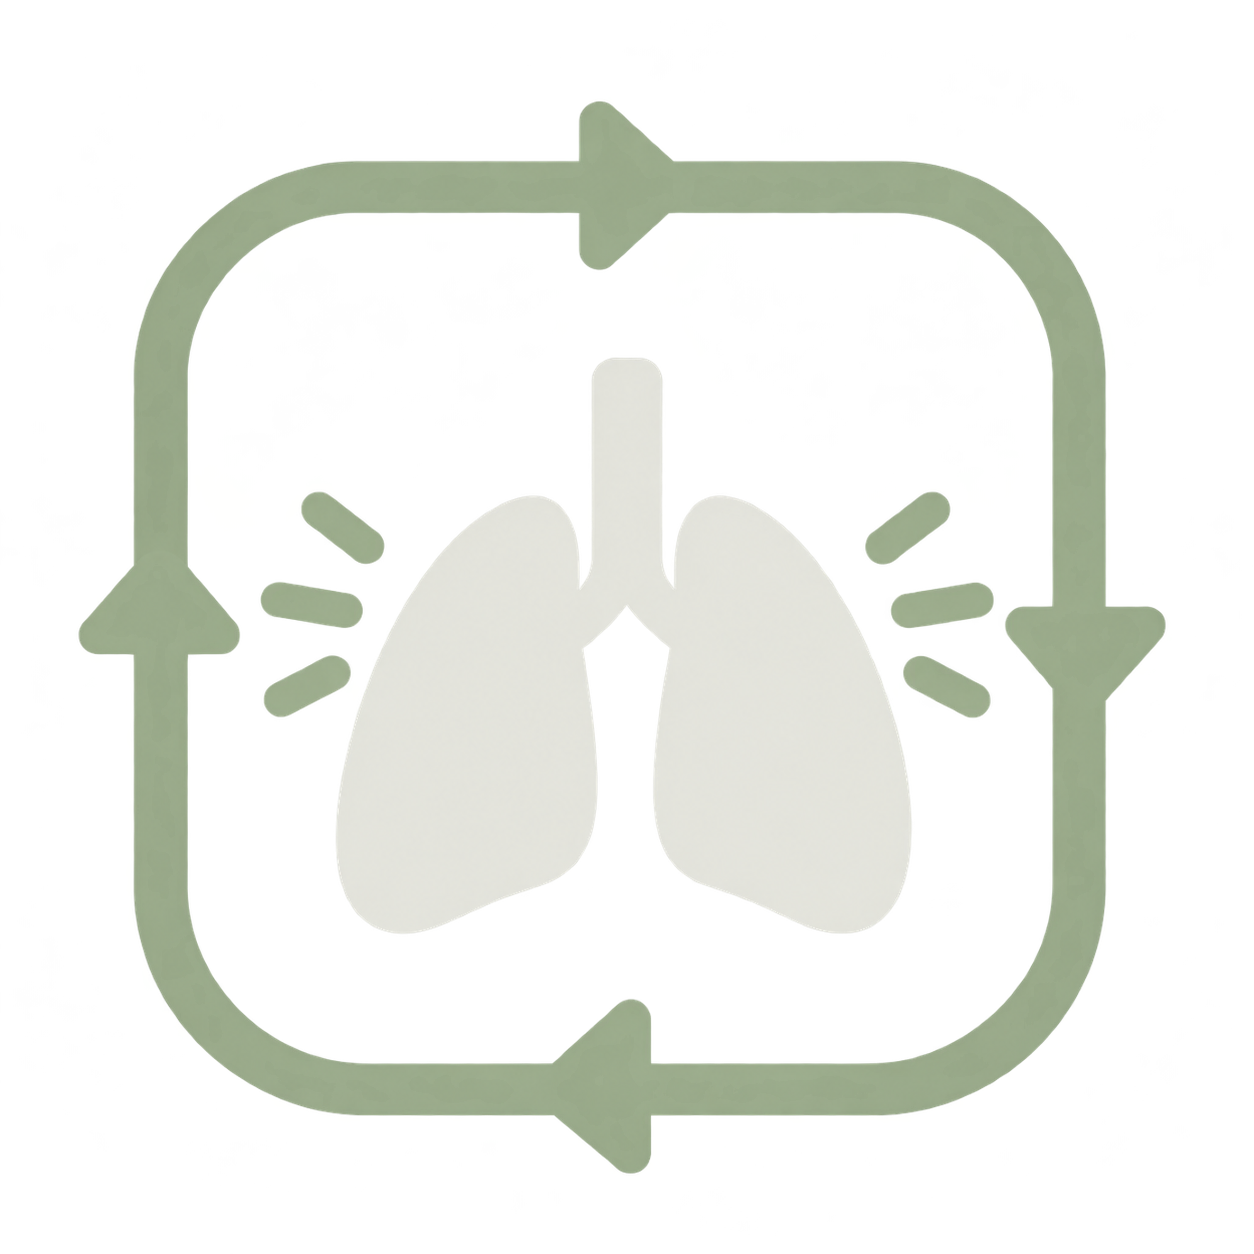
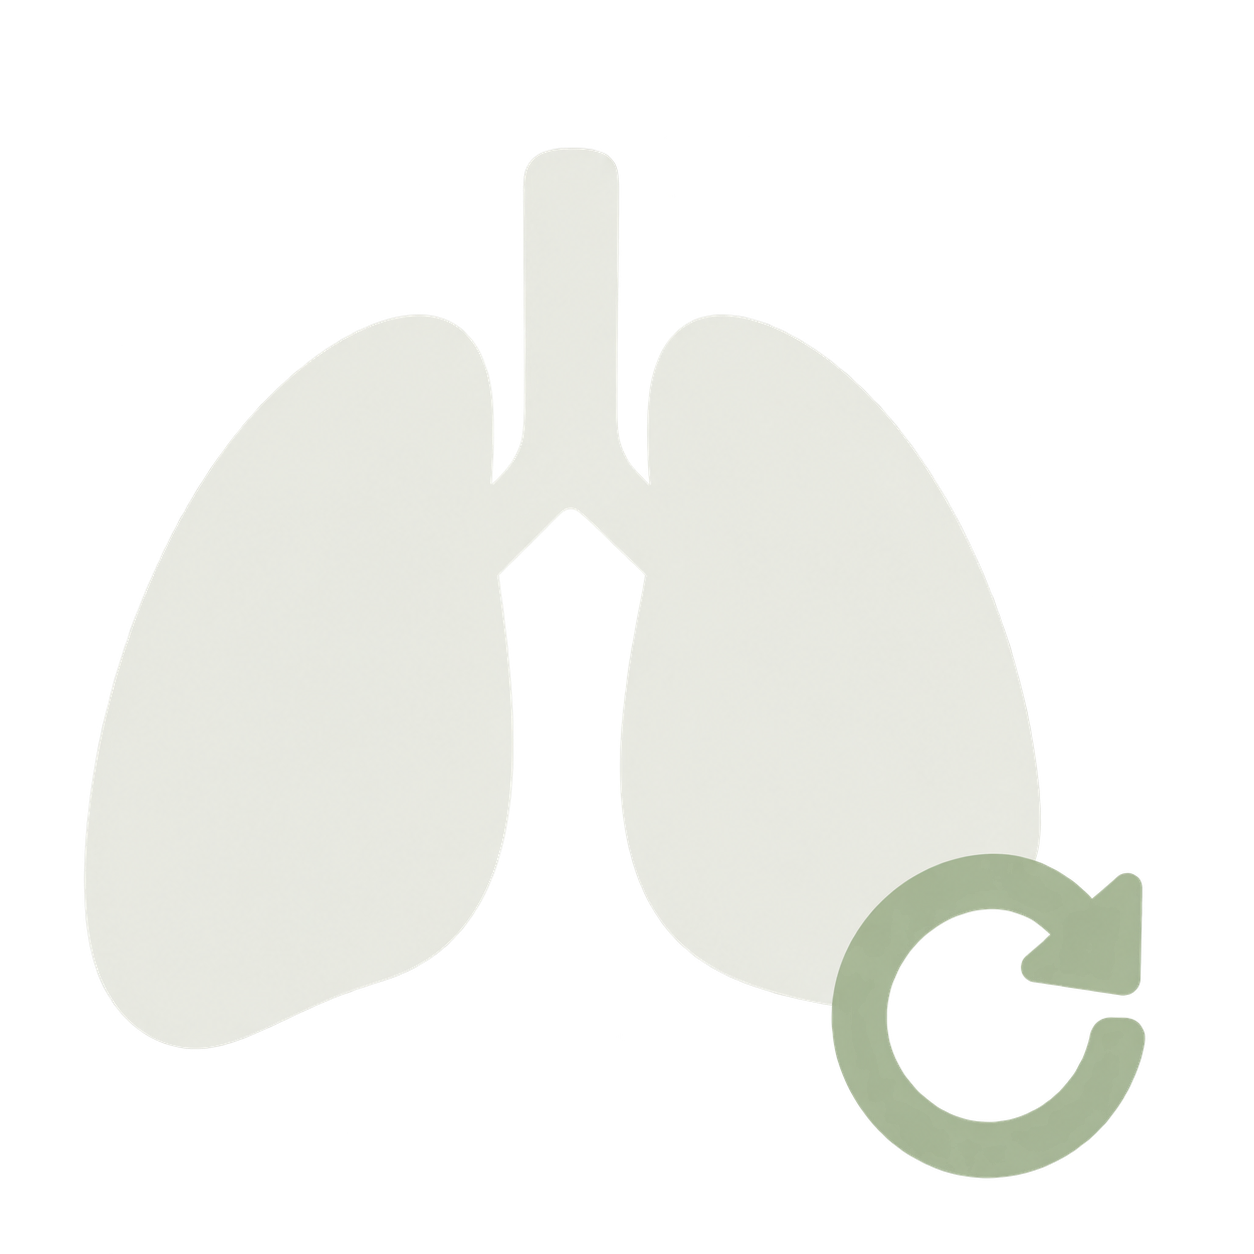
Simplify round SVGs for practice and research

diff --git a/atmungsraum/index.html b/atmungsraum/index.html
@@ -31,11 +31,11 @@
       <div class="screen-body round-body">
         <nav class="rounds" aria-label="Übungsart auswählen">
           <a class="round" href="#probe-runde" aria-labelledby="round-probe-label">
-            <img class="round-art" src="./assets/rounds/probe-runde.svg" width="240" height="160" alt="" aria-hidden="true">
+            <img class="round-art" src="./assets/rounds/probe-runde.svg?v=20261105-simple" width="240" height="160" alt="" aria-hidden="true">
             <span id="round-probe-label" data-measure>Probe-Runde</span>
           </a>
           <a class="round" href="#haupt-runde" aria-labelledby="round-main-label">
-            <img class="round-art" src="./assets/rounds/haupt-runde.svg" width="240" height="160" alt="" aria-hidden="true">
+            <img class="round-art" src="./assets/rounds/haupt-runde.svg?v=20261105-simple" width="240" height="160" alt="" aria-hidden="true">
             <span id="round-main-label" data-measure>Haupt-Runde</span>
           </a>
         </nav>

diff --git a/atmungsraum/for-ai/PROJECT.md b/atmungsraum/for-ai/PROJECT.md
@@ -39,18 +39,26 @@ separate open checks. Recheck shared-checkout Git state before continuing.
 - [x] Verify 13 rendered cases, both branch routes, keyboard activation and
   readable unavailable-measurement fallback. See `VERIFICATION.md`.
 
-The practice graphic shows a breathing loop; the main graphic shows natural
-breathing followed by box breathing. This user request supersedes the earlier
-text-only round-choice artwork rule. The overall headset/H10 product goal and
-pending audio listening review remain open.
+The final simplified practice graphic shows lungs with a repeat arrow. The main
+graphic shows a clipboard with a simple three-point data chart, identifying the
+research/data-collection role requested by the user. Both SVG backgrounds and
+the clipboard interior are transparent. This replaces the first breathing-loop
+artwork and supersedes the earlier text-only round-choice rule. The symbols do
+not establish implemented research data collection; the overall headset/H10
+product goal and pending audio listening review remain open.
 
 Git observation: the shared checkout is on `main`. Concurrent UI alignment work
 committed the two image references and their CSS in `e4f76d9` while this task
 was tracing/verifying the assets; player/audio edits remain owned by the other
-task. This task records the assets and their evidence in the commit titled
-`Add generated SVG infographics for Atmungsraum round buttons`. Publication
-verification is recorded separately when observed; next product action remains
-the pending headset/H10 integration and listening acceptance.
+task. The initial assets were published in `a79275f` (Pages run `42044006553`
+succeeded). The simplified revision is saved locally under
+`Simplify round SVGs for practice and research`; its new PNGs, real path-only
+SVGs, prompts and transparent-alpha checks are retained with the existing
+13-case rendered QA. It is not pushed by this revision, because the shared
+`main` also contains the separate unpushed player commit `2e58f6f` and ongoing
+scenario-audio edits. Next artwork action: publish the simplified assets with
+the intended navigation release and repeat the live asset/browser checks.
+Preserve the concurrent work; the overall product goal remains open.
 
 ## Current UI alignment task — 2026-11-05
 

diff --git a/atmungsraum/for-ai/VERIFICATION.md b/atmungsraum/for-ai/VERIFICATION.md
@@ -30,11 +30,19 @@ Safari, H10/headset execution and live deployment were not checked by this task.
 
 ## Round-button SVG infographics — 2026-11-05
 
-Built-in image generation produced two transparent PNG originals; VTracer
-converted them into eight and four SVG paths, respectively. Runtime SVGs are
-23,814 and 17,208 bytes, with the same 240×160 view box and two-color palette.
-The page loads the SVGs, preserving visible German labels and link names.
-Source PNGs and exact prompts/conversion settings live in `assets/rounds/`.
+The user simplified the initial diagrams to practice lungs with one repeat
+arrow and a research/data-collection clipboard with a three-point data chart.
+Two new built-in image generations were converted with VTracer to two and three
+SVG paths, respectively. Runtime SVGs are 8,907 and 12,982 bytes, with the same
+240×160 view box and two-color palette. They contain no bitmap, background
+rectangle, script or external reference; transparent outer corners and internal
+gaps were checked in rasterized alpha. The page loads the SVGs with revised
+image cache tokens, preserving visible German labels and link names. Source
+PNGs and exact prompts/conversion settings live in `assets/rounds/`.
+
+The 13-case rendered/keyboard/fallback check below was repeated successfully
+for the simplified revision. Its publication remains pending; `a79275f` and
+Pages run `42044006553` refer to the earlier artwork, not this revision.
 
 Native headless Chrome passed 13 rendered cases: 320×568, 390×844, 768×1024,
 900×553, 1280×720, 1920×1080, 568×320, 844×390, 480×480 and 481×480 CSS px,

diff --git a/atmungsraum/assets/rounds/README.md b/atmungsraum/assets/rounds/README.md
@@ -4,10 +4,12 @@ Generated with the built-in image generation tool on 2026-11-05, then traced
 into genuine SVG paths. The original transparent PNGs are retained alongside
 the runtime SVGs. Exact prompts and conversion settings are in `generation.json`.
 
-- `probe-runde`: lungs inside a four-phase breathing loop for practice.
-- `haupt-runde`: natural breathing followed by the guided box-breathing loop.
+- `probe-runde`: lungs with one repeat arrow for breathing practice.
+- `haupt-runde`: a clipboard with three connected data points for research and
+  data collection. It does not claim that the browser prototype collects data.
 
-Both SVGs use the page's sage/cream palette and a shared 240×160 view box.
+Both SVGs have fully transparent backgrounds, use the page's sage/cream palette
+and share a 240×160 view box. The clipboard interior is transparent too.
 Only the SVGs load on the page; there are no embedded bitmap images, external
 references, scripts, fonts or animation. German button labels remain HTML text.
 The illustrations are decorative supplements with empty alt text; the links'

diff --git a/atmungsraum/for-ai/DECISIONS.md b/atmungsraum/for-ai/DECISIONS.md
@@ -16,8 +16,11 @@ the previous hidden-until-playing countdown display.
 ## 2026-11-05 — Generated SVG illustrations in round buttons
 
 The user requests two infographic images, conversion to SVG and embedding in
-the Probe-Runde/Haupt-Runde buttons. Use the generated breathing-loop practice
-graphic and natural-breathing-to-box-breathing main graphic in `assets/rounds/`.
+the Probe-Runde/Haupt-Runde buttons. The later correction distinguishes
+practice from research/data collection: use simple lungs with one repeat arrow
+for practice, and a clipboard containing a simple data chart for the main
+research round. Keep both SVG backgrounds and the clipboard interior
+transparent. Final generated assets and exact prompts live in `assets/rounds/`.
 Keep the visible HTML labels and accessible link names; treat the images as
 decorative supplements. Retain generated PNG originals and exact prompts, but
 load only the traced path-based SVGs at runtime. This supersedes the text-only
